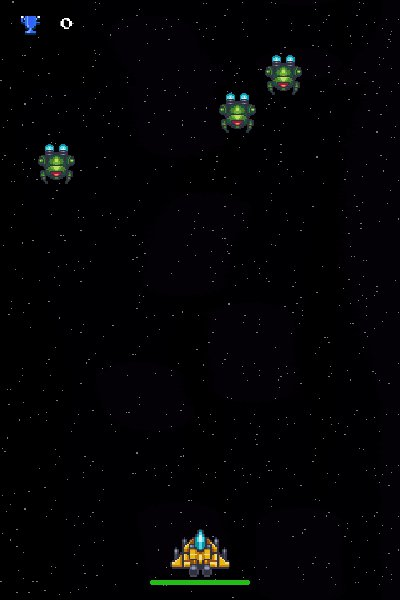
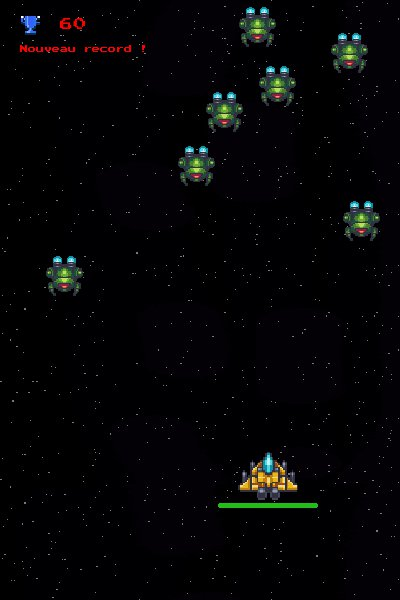
ajout enter pour lancer jeu

diff --git a/main.py b/main.py
@@ -562,6 +562,9 @@ def main_menu():
         
         
         for event in pygame.event.get():
+            if event.type==pygame.KEYDOWN:
+                if event.key==pygame.K_RETURN:
+                    jeu()
             if event.type == pygame.QUIT:
                 pygame.quit()
                 sys.exit()
